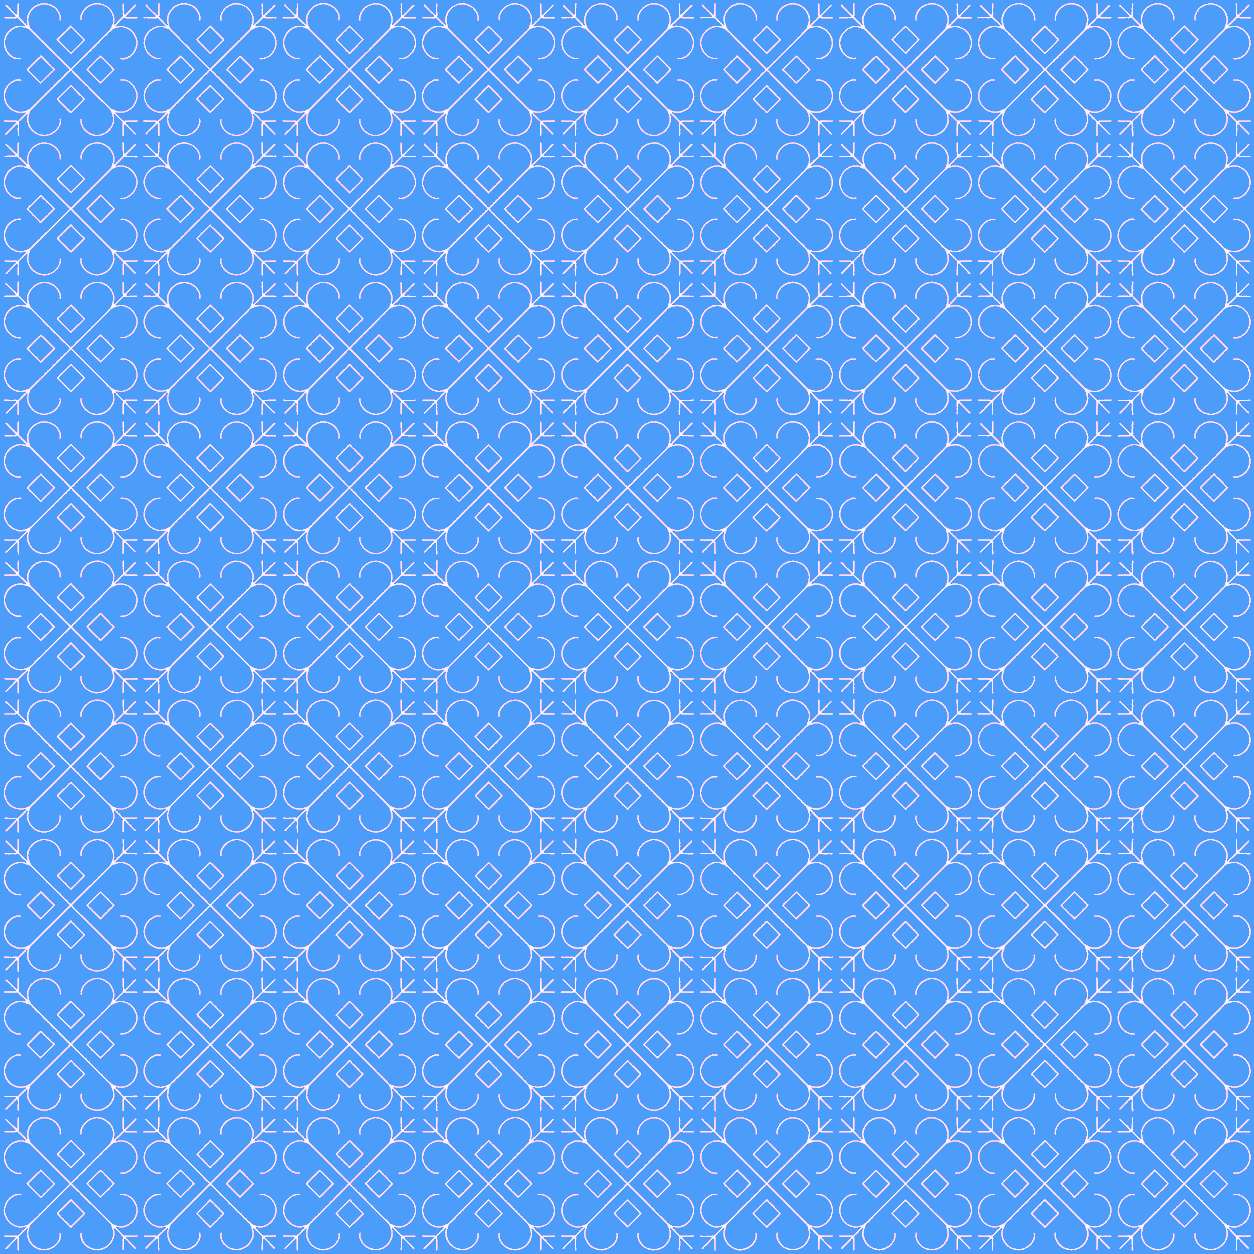
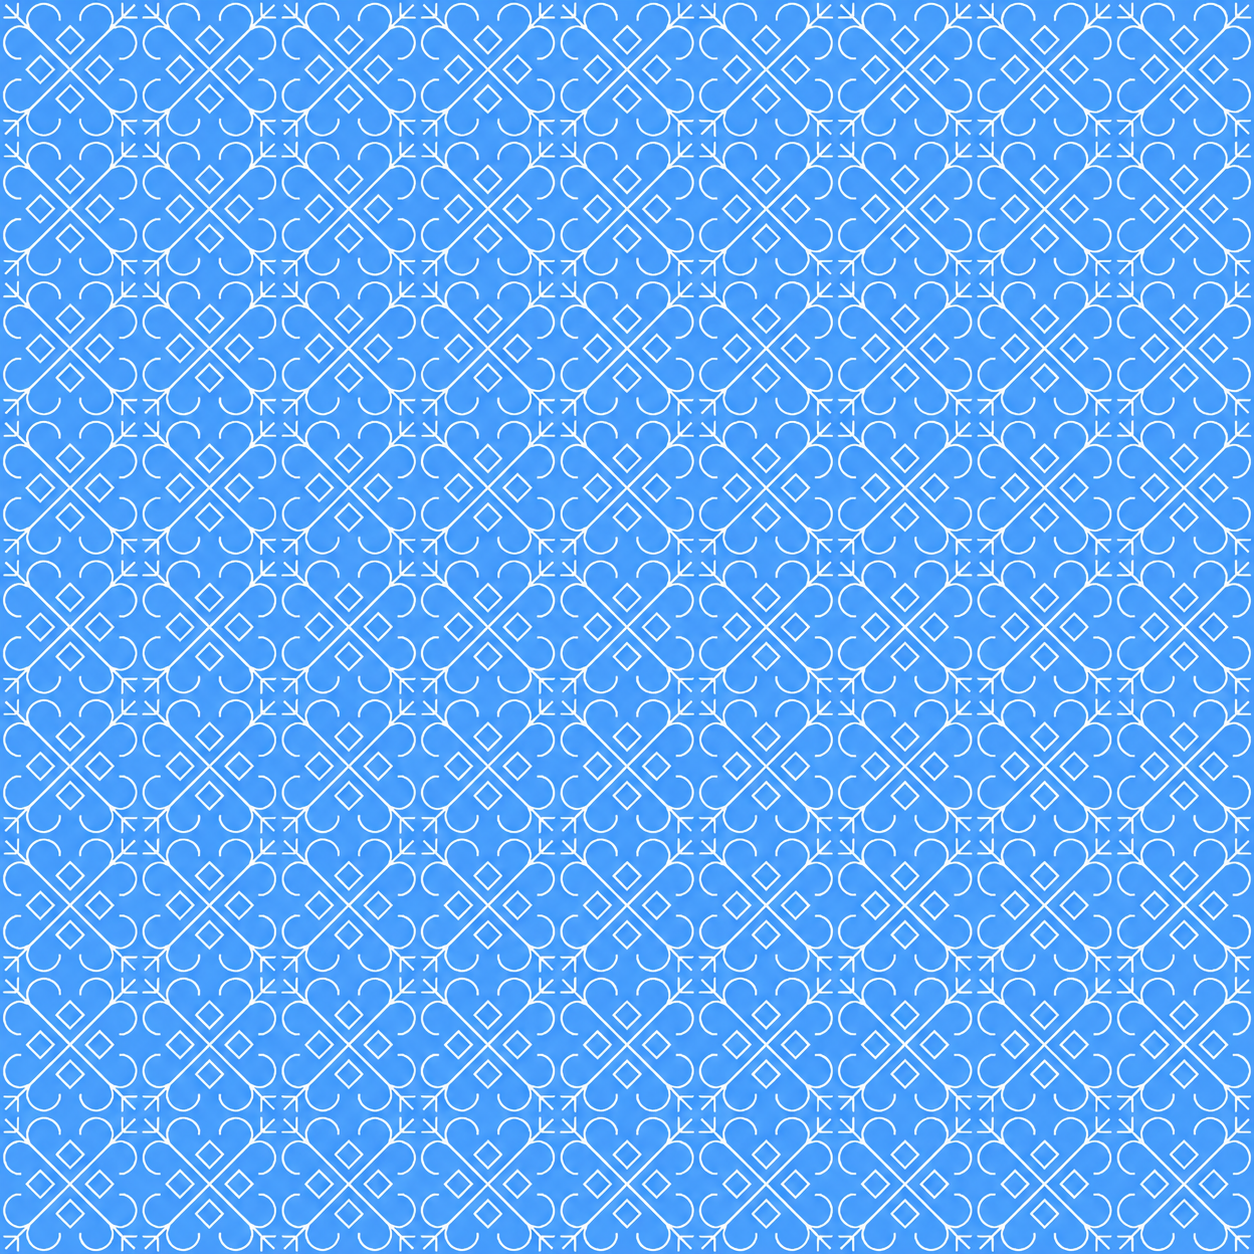
Re-styling website

Changed region(s): [[0.0, 0.0, 1.0, 1.0]]

diff --git a/public/stylesheets/main.css b/public/stylesheets/main.css
@@ -60,9 +60,9 @@ body::-webkit-scrollbar-track {
 
 body::-webkit-scrollbar-thumb {
     border-radius: 0.5em;
-    background: #2C3E50;  /* fallback for old browsers */
-    background: -webkit-linear-gradient(to right, #4CA1AF, #2C3E50);  /* Chrome 10-25, Safari 5.1-6 */
-    background: linear-gradient(to right, #4CA1AF, #2C3E50); /* W3C, IE 10+/ Edge, Firefox 16+, Chrome 26+, Opera 12+, Safari 7+ */
+    background: #554023;  /* fallback for old browsers */
+    background: -webkit-linear-gradient(to right, #c99846, #554023);  /* Chrome 10-25, Safari 5.1-6 */
+    background: linear-gradient(to right, #c99846, #554023); /* W3C, IE 10+/ Edge, Firefox 16+, Chrome 26+, Opera 12+, Safari 7+ */
 }
 
 /* Alert messages styling */
@@ -78,7 +78,9 @@ body::-webkit-scrollbar-thumb {
 /*******************************************************************************************************************************************************/
 /* Navbar */
 .navbar {
-    background: #000;
+    background: #000000;  /* fallback for old browsers */
+    background: -webkit-linear-gradient(to right, #434343, #000000); 
+    background: linear-gradient(to right, #434343, #000000); 
 	font-family: Righteous;
 }
 
@@ -257,7 +259,7 @@ h1:hover {
 /* Horizontal rule styling */
 hr {
     width: 100%;
-    height: 12px;
+    height: 2px;
 	margin-bottom: 0;
     border: 0;
     box-shadow: inset 0 10px 10px -14px rgba(0, 0, 0, 0.8);
@@ -495,14 +497,19 @@ div.col-8.col-md-4 {
     display: none; /* Hidden by default */
     position: fixed; /* Stay in place */
     z-index: 1; /* Sit on top */
-    padding-top: 100px; /* Location of the box */
+    padding-top: 25px; /* Location of the box */
     left: 0;
     top: 0;
     width: 100%; /* Full width */
     height: 100%; /* Full height */
-    overflow: auto; /* Enable scroll if needed */
-    background-color: rgb(0,0,0); /* Fallback color */
-    background-color: rgba(0,0,0,0.9); /* Black w/ opacity */
+    overflow: hidden; /* Prevent scroll */
+    background-color: rgba(0,0,0,0.7); /* Dark transparent background */
+    backdrop-filter: blur(2px);
+}
+
+#img01 {
+    background-color: transparent;
+    border: none;
 }
 
 /* Disable scrollbar */
@@ -514,51 +521,35 @@ div.col-8.col-md-4 {
 .modal-content {
     margin: auto;
     display: block;
-    width: 80%;
-    max-width: 700px;
+    width: 90%;
+    max-width: 90vw;
+    max-height: 90vh;
+    object-fit: contain;
 }
 
 /* Add Animation - Zoom in the Modal */
 .modal-content, #caption {
     animation-name: zoom;
-    animation-duration: 0.6s;
+    animation-duration: 0.8s;
 }
 
 /* Styling the caption */
 #caption {
-	margin-top: 20px;
+	margin-top: 10px;
 	font-size: 2em;
 	text-align: center;
 	font-weight: 700;
-	background: #00c3ff;  /* fallback for old browsers */
-	background: -webkit-linear-gradient(to right, #ffff1c, #00c3ff);  /* Chrome 10-25, Safari 5.1-6 */
-	background: linear-gradient(to top, #ffff1c, #00c3ff); /* W3C, IE 10+/ Edge, Firefox 16+, Chrome 26+, Opera 12+, Safari 7+ */
+	background: #00fff0;  /* fallback for old browsers */
+    background: -webkit-linear-gradient(to right, #0083fe, #00fff0);  
+    background: linear-gradient(to right, #0083fe, #00fff0); 
 	background-clip: text;
     -webkit-background-clip: text;
     -webkit-text-fill-color: transparent;
-}
-
-/* Styling the description in modal */
-#descrip {
-	padding: 0 10em;
-	margin: 15px 0 50px 0;
-	font-size: 1.5em;
-	text-align: center;
 }
 
 .fa-quote-left, .fa-quote-right {
 	font-size: 0.6em;
 	vertical-align: top;
-}
-
-/* Apply color gradient to descrioption */
-#descrip, #descrip > i {
-	background: #e65c00;  /* fallback for old browsers */
-	background: -webkit-linear-gradient(to right, #F9D423, #e65c00);  /* Chrome 10-25, Safari 5.1-6 */
-	background: linear-gradient(to right, #F9D423, #e65c00); /* W3C, IE 10+/ Edge, Firefox 16+, Chrome 26+, Opera 12+, Safari 7+ */
-	background-clip: text;
-    -webkit-background-clip: text;
-    -webkit-text-fill-color: transparent;
 }
 
 /* The Close Button */
@@ -588,9 +579,9 @@ div.col-8.col-md-4 {
     text-align: center;
     text-shadow: 2px 2px 2px rgba(255, 255, 255, 0.2);
     font-size: 3.5em;
-	background: #2c332c;  /* fallback for old browsers */
-	background: -webkit-linear-gradient(to right, #252525, #051238);  /* Chrome 10-25, Safari 5.1-6 */
-	background: linear-gradient(to right, #252525, #051238); /* W3C, IE 10+/ Edge, Firefox 16+, Chrome 26+, Opera 12+, Safari 7+ */
+	background: #BA8B02;  /* fallback for old browsers */
+    background: -webkit-linear-gradient(to right, #181818, #BA8B02);  
+    background: linear-gradient(to right, #181818, #BA8B02); 
     background-clip: text;
     -webkit-background-clip: text;
     -webkit-text-fill-color: transparent;
@@ -600,7 +591,7 @@ div.col-8.col-md-4 {
 /* Section underlines */
 .tabs > hr {
     width: 80%;
-    box-shadow: inset 0 10px 10px -14px rgba(255, 255, 255, 0.8);
+    box-shadow: inset 0 10px 10px -14px rgba(0, 0, 0, 0.8);
 }
 
 /* Image slideshow */
@@ -612,38 +603,12 @@ div.col-8.col-md-4 {
     background-repeat: no-repeat;
     background-position: center;
     background-size: contain;
-    border-radius: 15px ;
-    box-shadow: 5px 5px 10px #f0f0f0;
-}
-
-/* Info section */
-.info {
-    color: rgba(255, 255, 255, 0.726);
-    text-align: center;
-    font-size: 1.5em;
-    padding: 0 50px;
-    margin-bottom: 400px;
-}
-
-/* Details section */
-.details {
-    color: rgba(255, 255, 255, 0.9);
-    text-align: center;
-	font-family: Kurale;
-    font-size: 1.5em;
-}
-
-.details > ul {
-    padding: 0;
-    list-style: none;
-    line-height: 2.5em;
-    font-size: 0.8em;
 }
 
 /* Modify form components */
 form {
     font-size: 1.4em;
-    color: white;
+    color: #110011;
 }
 
 /* Form focus styling */
@@ -655,42 +620,6 @@ form {
 
 input[type="tel"]:invalid, input[type="email"]:invalid {
 	color: red;
-}
-
-/* Comment section styling */
-.commentSection {
-	background: rgba(255, 255, 255, 0.8);
-	border-radius: 5px;
-	box-shadow: 2px 2px 4px rgba(0, 0, 0, 0.6) inset, 2px -2px 4px rgba(0, 0, 0, 0.6) inset, -2px 2px 4px rgba(0, 0, 0, 0.6) inset, -2px -2px 4px rgba(0, 0, 0, 0.6) inset;
-}
-
-/* User icon styling */
-.user {
-	line-height: 2em;
-	text-align: center;
-	font-size: 2.5em;
-}
-
-/* Styling each comment */
-.comment {
-	padding: 15px 0 0 0;
-	font-family: Expletus Sans, Maiandra GD;
-	text-transform: capitalize;	
-}
-
-/* Styling the edit and delete buttons */
-.commentButtons {
-	padding: 10px;
-	text-align: center;
-	opacity: 0;
-	transition: 0.4s all;
-}
-
-
-/* Show buttons when comment is hovered */
-.commentRow:hover .commentButtons {
-	opacity: 0.9;
-	transform: translateY(15px);
 }
 
 /* Buttons for adding instances */
@@ -707,29 +636,8 @@ input[type="tel"]:invalid, input[type="email"]:invalid {
 	position: absolute;
 	margin: auto 0;
 	text-transform: uppercase;
-	letter-spacing: 1px;
-}
-
-/* Polylines */
-.o1 {
-	fill: rgba(255, 255, 255, 0);
-	transition: all 1s ease-in-out;
-}
-
-/* .o2 {
-	stroke: rgba(255, 255, 255, 0.8);
-	stroke-dasharray: 20 420;
-	stroke-dashoffset: 20;
-	transition: all 1s ease-in-out;
-} */
-
-/* Hoovered effects */
-.button:hover .o1 {
-	fill: rgb(0, 0, 0);
-}
-		
-.button:hover .o2 {
-	stroke-dashoffset: -420;
+	letter-spacing: 2px;
+	transition: all 0.3s;
 }
 
 .button:hover span {
@@ -740,13 +648,20 @@ input[type="tel"]:invalid, input[type="email"]:invalid {
 svg {
 	height: 55px;
 	width: 150px;
-	fill: none;
 	stroke-width: 5;
 	border-radius: 5px;
+    background: #554023;  /* fallback for old browsers */
+    background: -webkit-linear-gradient(to right, #c99846, #554023); 
+    background: linear-gradient(to right, #c99846, #554023); 
+    opacity: 0.5;
+    transition: all 0.3s;
 }
 
-/* CREATE AND EDIT COMMENT PAGE ======================================*/
-/* Create and Edit form styling */
+.button:hover svg, svg:hover {
+    opacity: 1;
+}
+
+/* UPLOAD PAGE ======================================*/
 /* Spacing from the top navbar */
 .reviewForm {
 	padding-top: 50px;
@@ -761,6 +676,11 @@ svg {
 /* Adjusting the elements to center */
 .reviewForm label, .reviewForm .btn-tray, .reviewForm .upload_option {
 	margin: 0 25%;
+    color: #110011;
+}
+
+.reviewForm .btn-tray a {
+    color: #110011;
 }
 
 /* Header styling */
@@ -770,18 +690,14 @@ svg {
 	color: white;
 	text-align: center;
 	font-family: Righteous;
-	font-size: 3.5em;
-	background: -webkit-linear-gradient(to right, #fcb045, #fd1d1d, #833ab4);  /* Chrome 10-25, Safari 5.1-6 */
-	background: linear-gradient(to right, #fcb045, #fd1d1d, #833ab4);
+	font-size: 5em;
+    background: #BA8B02;  /* fallback for old browsers */
+    background: -webkit-linear-gradient(to right, #181818, #BA8B02);  
+    background: linear-gradient(to right, #181818, #BA8B02); 
     background-clip: text;
     -webkit-background-clip: text;
     -webkit-text-fill-color: transparent;
 	transition: all 0.4s;
-}
-
-/* Header hover effect */
-.reviewForm h2:hover {
-	transform: scale(1.2);
 }
 
 /* Style hr to show up white */
@@ -989,15 +905,16 @@ footer {
 
 .social_links {
     border-radius: 50%;
-    transition: all 0.8s ease-in-out;
+    transition: all 0.5s linear;
 }
 
 .social_links:hover {
     cursor: pointer;
-    box-shadow: 2px 2px 10px #fff, -2px -2px 10px #fff, 2px -2px 10px #fff, -2px 2px 10px #fff,
-                4px 4px 10px rgba(255, 255, 255, 0.6),  -4px -4px 10px rgba(255, 255, 255, 0.6), 
-                4px -4px 10px rgba(255, 255, 255, 0.6),  -4px 4px 10px rgba(255, 255, 255, 0.6);
-    /* transform: rotate(360deg); */
+    box-shadow: 5px 5px 20px rgba(172, 147, 98, 0.4), -5px -5px 20px rgba(172, 147, 98, 0.4),
+                5px -5px 20px rgba(172, 147, 98, 0.4), -5px 5px 20px rgba(172, 147, 98, 0.4),
+                10px 10px 20px rgba(172, 147, 98, 0.2), -10px -10px 20px rgba(172, 147, 98, 0.2),
+                10px -10px 20px rgba(172, 147, 98, 0.2), -10px 10px 20px rgba(172, 147, 98, 0.2);
+    /* transform: rotatey(360deg); */
 }
 
 .social_links img {
@@ -1008,12 +925,12 @@ footer {
 .copyright {
     margin-top: 15px;
     text-align: center;
-    color: rgba(233,236,239,0.5);
+    color: #333333;
     transition: all 0.4s;
 }
 
 .copyright:hover {
-    color: #e9ecef;
+    color: rgb(77, 64, 38)
 }
 
 .copyright:last-child {

diff --git a/public/scripts/galleries.js b/public/scripts/galleries.js
@@ -8,7 +8,6 @@ var modalImg = $("#img01");
 var span = document.getElementsByClassName("close")[0];
 
 var captionText = document.getElementById("caption");
-// var descriptionText = document.getElementById("descrip");
 
 /******* Apply random rotation to each .myImg element *******/
 function applyRandomRotations() {
@@ -43,7 +42,6 @@ $(document).ready(function(){
 	var info = this.alt;
 	info = info.split('|');
 	captionText.innerHTML = info[0];
-	// descriptionText.innerHTML = '<i class="fas fa-quote-left"></i> '+info[1]+' <i class="fas fa-quote-right"></i>';
   });
 });
 

diff --git a/public/scripts/home.js b/public/scripts/home.js
@@ -48,6 +48,7 @@ switch (currPage) {
                   document.querySelector(".jumbotron").style.backgroundRepeat = "repeat";
                           break;
   case "order": document.querySelector(".jumbotron").style.backgroundImage = "url(/images/morocco-lavendar.png)";
+                document.querySelector(".jumbotron").style.backgroundColor = "rgba(255,255,255,0.4)";
                 document.querySelector(".jumbotron").style.backgroundSize = "50%";
                 document.querySelector(".jumbotron").style.backgroundRepeat = "repeat";
                           break;